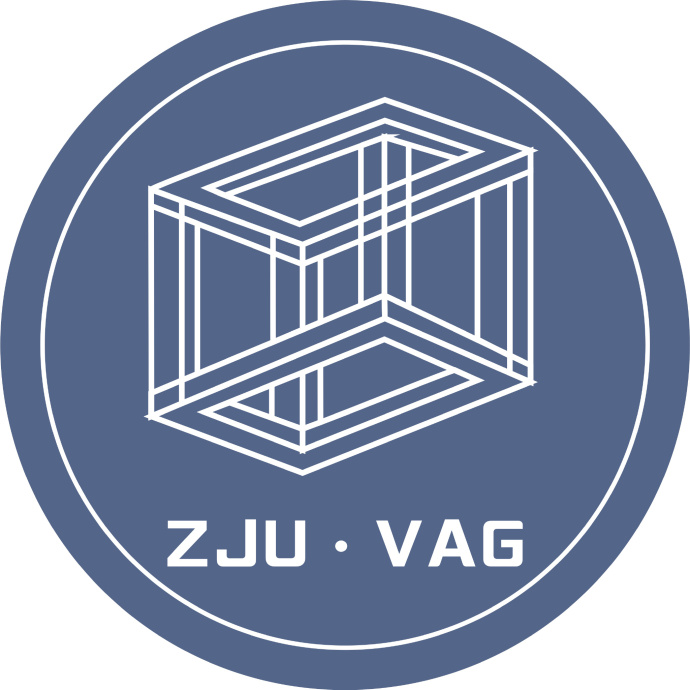
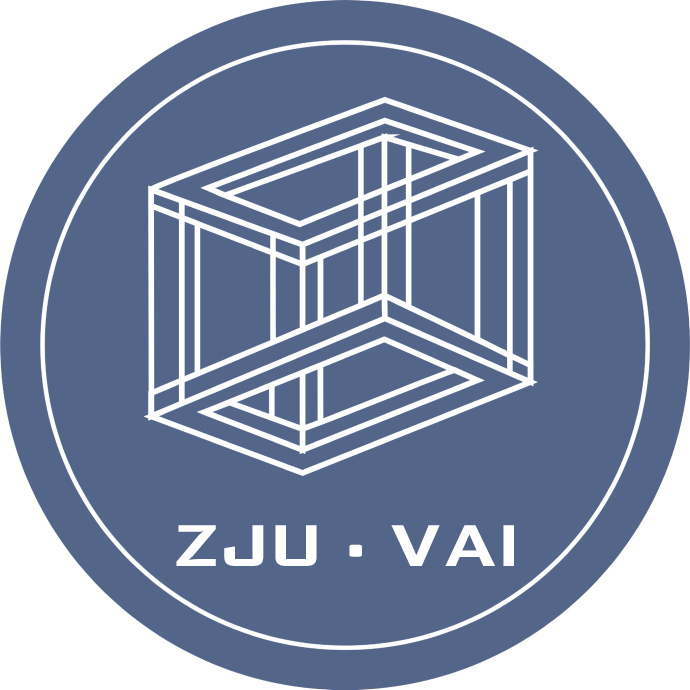
'generated'

Changed region(s): [[0.2435, 0.7304, 0.7609, 0.8217]]

diff --git a/docs/members/index.html b/docs/members/index.html
@@ -928,6 +928,99 @@
 
   
   
+  
+  
+  
+  
+  
+  
+    
+  <div class="col-12 col-sm-auto people-person">
+    
+    
+    
+    
+    
+    
+    
+    
+    
+    
+    <a href="../authors/fanyan"><img class="portrait phdstudents" src="/authors/fanyan/avatar_hu8bdb5625626fd6af0ce0f29bb8a383c4_74283_150x150_fill_lanczos_center_2.png" alt="Avatar"></a>
+    
+
+    <div class="portrait-title">
+      <h2 class="phdstudents"><a href="../authors/fanyan">Fan Yan</a>
+      </h2>
+      
+      <p class="people-interests">Information Visualization, Visual Analytics</p>
+    </div>
+  </div>
+
+  
+  
+  
+  
+  
+  
+  
+  
+    
+  <div class="col-12 col-sm-auto people-person">
+    
+    
+    
+    
+    
+    
+    
+    
+    
+    
+    <a href="../authors/jiehuizhou"><img class="portrait phdstudents" src="/authors/jiehuizhou/avatar_hu771a6abfa3ae19157e7a2a97e592a1a2_106316_150x150_fill_lanczos_center_2.png" alt="Avatar"></a>
+    
+
+    <div class="portrait-title">
+      <h2 class="phdstudents"><a href="../authors/jiehuizhou">Jiehui Zhou</a>
+      </h2>
+      
+      <p class="people-interests">Information Visualization, Visual Analytics</p>
+    </div>
+  </div>
+
+  
+  
+  
+  
+  
+  
+  
+  
+    
+  <div class="col-12 col-sm-auto people-person">
+    
+    
+    
+    
+    
+    
+    
+    
+    
+    
+    <a href="../authors/yingchaojiefeng"><img class="portrait phdstudents" src="/authors/yingchaojiefeng/avatar_huabf1205c36897bff0866bfa4dce0ef5f_455172_150x150_fill_q90_lanczos_center.jpg" alt="Avatar"></a>
+    
+
+    <div class="portrait-title">
+      <h2 class="phdstudents"><a href="../authors/yingchaojiefeng">Yingchaojie Feng</a>
+      </h2>
+      
+      <p class="people-interests">Information Visualization, Visual Analytics</p>
+    </div>
+  </div>
+
+  
+  
   <div class="col-md-12">
     <h2 class="mb-4">Master Students</h2>
   </div>
@@ -1077,11 +1170,11 @@
     
     
     
-    <a href="../authors/xiaodongzhao"><img class="portrait masterstudents" src="/authors/xiaodongzhao/avatar_huf4b4e44103c893177dcfbec53f4fb832_28705_150x150_fill_lanczos_center_2.png" alt="Avatar"></a>
+    <a href="../authors/huiye"><img class="portrait masterstudents" src="/authors/huiye/avatar_hu66281b0d46470ecaa61e4ff6879a6a21_5203_150x150_fill_q90_lanczos_center.jpg" alt="Avatar"></a>
     
 
     <div class="portrait-title">
-      <h2 class="masterstudents"><a href="../authors/xiaodongzhao">Xiaodong Zhao</a>
+      <h2 class="masterstudents"><a href="../authors/huiye">Hui Ye</a>
       </h2>
       
       <p class="people-interests">Information Visualization, Visual Analytics</p>
@@ -1108,11 +1201,11 @@
     
     
     
-    <a href="../authors/huiye"><img class="portrait masterstudents" src="/authors/huiye/avatar_hu66281b0d46470ecaa61e4ff6879a6a21_5203_150x150_fill_q90_lanczos_center.jpg" alt="Avatar"></a>
+    <a href="../authors/xiaodongzhao"><img class="portrait masterstudents" src="/authors/xiaodongzhao/avatar_huf4b4e44103c893177dcfbec53f4fb832_28705_150x150_fill_lanczos_center_2.png" alt="Avatar"></a>
     
 
     <div class="portrait-title">
-      <h2 class="masterstudents"><a href="../authors/huiye">Hui Ye</a>
+      <h2 class="masterstudents"><a href="../authors/xiaodongzhao">Xiaodong Zhao</a>
       </h2>
       
       <p class="people-interests">Information Visualization, Visual Analytics</p>
@@ -1294,73 +1387,11 @@
     
     
     
-    <a href="../authors/fanyan"><img class="portrait masterstudents" src="/authors/fanyan/avatar_hu8bdb5625626fd6af0ce0f29bb8a383c4_74283_150x150_fill_lanczos_center_2.png" alt="Avatar"></a>
-    
-
-    <div class="portrait-title">
-      <h2 class="masterstudents"><a href="../authors/fanyan">Fan Yan</a>
-      </h2>
-      
-      <p class="people-interests">Information Visualization, Visual Analytics</p>
-    </div>
-  </div>
-
-  
-  
-  
-  
-  
-  
-  
-  
-    
-  <div class="col-12 col-sm-auto people-person">
-    
-    
-    
-    
-    
-    
-    
-    
-    
-    
     <a href="../authors/yichaowang"><img class="portrait masterstudents" src="/authors/yichaowang/avatar_hucc3b422108d07c0e72b897d10f0e93b8_23012_150x150_fill_lanczos_center_2.png" alt="Avatar"></a>
     
 
     <div class="portrait-title">
       <h2 class="masterstudents"><a href="../authors/yichaowang">Yichao Wang</a>
-      </h2>
-      
-      <p class="people-interests">Information Visualization, Visual Analytics</p>
-    </div>
-  </div>
-
-  
-  
-  
-  
-  
-  
-  
-  
-    
-  <div class="col-12 col-sm-auto people-person">
-    
-    
-    
-    
-    
-    
-    
-    
-    
-    
-    <a href="../authors/jiehuizhou"><img class="portrait masterstudents" src="/authors/jiehuizhou/avatar_hu771a6abfa3ae19157e7a2a97e592a1a2_106316_150x150_fill_lanczos_center_2.png" alt="Avatar"></a>
-    
-
-    <div class="portrait-title">
-      <h2 class="masterstudents"><a href="../authors/jiehuizhou">Jiehui Zhou</a>
       </h2>
       
       <p class="people-interests">Information Visualization, Visual Analytics</p>
@@ -1423,37 +1454,6 @@
 
     <div class="portrait-title">
       <h2 class="masterstudents"><a href="../authors/yifangren">Yifang Ren</a>
-      </h2>
-      
-      <p class="people-interests">Information Visualization, Visual Analytics</p>
-    </div>
-  </div>
-
-  
-  
-  
-  
-  
-  
-  
-  
-    
-  <div class="col-12 col-sm-auto people-person">
-    
-    
-    
-    
-    
-    
-    
-    
-    
-    
-    <a href="../authors/yingchaojiefeng"><img class="portrait masterstudents" src="/authors/yingchaojiefeng/avatar_huabf1205c36897bff0866bfa4dce0ef5f_455172_150x150_fill_q90_lanczos_center.jpg" alt="Avatar"></a>
-    
-
-    <div class="portrait-title">
-      <h2 class="masterstudents"><a href="../authors/yingchaojiefeng">Yingchaojie Feng</a>
       </h2>
       
       <p class="people-interests">Information Visualization, Visual Analytics</p>

diff --git a/docs/index.html b/docs/index.html
@@ -509,7 +509,7 @@
         
           
           
-          <img class="portrait" src="/authors/admin/avatar_hue342753856f1b55bb62d38c7380e0dc0_121560_250x250_fill_q90_lanczos_center.jpg" itemprop="image" alt="Avatar">
+          <img class="portrait" src="/authors/admin/avatar_hu3ecbe4048d9bb6a51e79e80fe424eaa7_274422_250x250_fill_lanczos_center_2.png" itemprop="image" alt="Avatar">
           
           
 
@@ -627,7 +627,7 @@
       
       <h1>Visual Analytics and Intelligence Group of ZJU</h1>
 
-      <p>The Visual Analytics and Intelligence Group of the State Key lab of CAD&amp;CG, Zhejiang University was established in September 2008. The academic leader is Professor <a href="http://www.cad.zju.edu.cn/home/chenwei/">Chen Wei</a> (Weibo: <a href="https://weibo.com/shearwarp">浙大陈为</a>).</p>
+      <p>The <strong>V</strong>isual <strong>A</strong>nalytics and <strong>I</strong>ntelligence Group of the State Key lab of CAD&amp;CG, Zhejiang University was established in September 2008. The academic leader is Professor <a href="http://www.cad.zju.edu.cn/home/chenwei/">Chen Wei</a> (Weibo: <a href="https://weibo.com/shearwarp">浙大陈为</a>).</p>
 <p>Our group focuses on the research of <strong>VISUALIZATION</strong> and <strong>VISUAL ANALYTICS</strong>. The research direction mainly includes: data science, visualization of complex data, basic theory and method of visual analysis, and domain-oriented visual analysis prototype system. Our group members have published more than 20 papers on IEEE VIS and IEEE/ACM articles, including the first three papers published by the Chinese mainland at this conference (2004, 2009). The team works extensively with universities and research institutions at home and abroad, including Purdue University, Hong Kong University of Science and Technology, University of California, Davis, North Carolina, Mississippi State University, Bosch North American Institute, Microsoft Research Asia, National Meteorological Administration. , Ali Group and so on. The world&rsquo;s first non-photorealistic 3D GPS navigation system, developed by our group&rsquo;s five members at the Bosch North American Institute, has entered the global automotive market. Our group has developed a data visualization component library, DataV, together with the data product division of Ali Group. It has now been widely used within the Ali Group. The global scale 3D numerical atmospheric visual analysis system developed by our group has been well received by the National Meteorological Administration.</p>
 
 

diff --git a/docs/authors/admin/index.html b/docs/authors/admin/index.html
@@ -468,7 +468,7 @@
         
           
           
-          <img class="portrait" src="/authors/admin/avatar_hue342753856f1b55bb62d38c7380e0dc0_121560_250x250_fill_q90_lanczos_center.jpg" itemprop="image" alt="Avatar">
+          <img class="portrait" src="/authors/admin/avatar_hu3ecbe4048d9bb6a51e79e80fe424eaa7_274422_250x250_fill_lanczos_center_2.png" itemprop="image" alt="Avatar">
           
           
 
@@ -586,7 +586,7 @@
       
       
 
-      <p>The Visual Analytics and Intelligence Group of the State Key lab of CAD&amp;CG, Zhejiang University was established in September 2008. The academic leader is Professor <a href="http://www.cad.zju.edu.cn/home/chenwei/">Chen Wei</a> (Weibo: <a href="https://weibo.com/shearwarp">浙大陈为</a>).</p>
+      <p>The <strong>V</strong>isual <strong>A</strong>nalytics and <strong>I</strong>ntelligence Group of the State Key lab of CAD&amp;CG, Zhejiang University was established in September 2008. The academic leader is Professor <a href="http://www.cad.zju.edu.cn/home/chenwei/">Chen Wei</a> (Weibo: <a href="https://weibo.com/shearwarp">浙大陈为</a>).</p>
 <p>Our group focuses on the research of <strong>VISUALIZATION</strong> and <strong>VISUAL ANALYTICS</strong>. The research direction mainly includes: data science, visualization of complex data, basic theory and method of visual analysis, and domain-oriented visual analysis prototype system. Our group members have published more than 20 papers on IEEE VIS and IEEE/ACM articles, including the first three papers published by the Chinese mainland at this conference (2004, 2009). The team works extensively with universities and research institutions at home and abroad, including Purdue University, Hong Kong University of Science and Technology, University of California, Davis, North Carolina, Mississippi State University, Bosch North American Institute, Microsoft Research Asia, National Meteorological Administration. , Ali Group and so on. The world&rsquo;s first non-photorealistic 3D GPS navigation system, developed by our group&rsquo;s five members at the Bosch North American Institute, has entered the global automotive market. Our group has developed a data visualization component library, DataV, together with the data product division of Ali Group. It has now been widely used within the Ali Group. The global scale 3D numerical atmospheric visual analysis system developed by our group has been well received by the National Meteorological Administration.</p>
 
 

diff --git a/content/authors/admin/_index.md b/content/authors/admin/_index.md
@@ -70,6 +70,6 @@ user_groups:
   - Visitors
 ---
 
-The Visual Analytics and Intelligence Group of the State Key lab of CAD&CG, Zhejiang University was established in September 2008. The academic leader is Professor [Chen Wei](http://www.cad.zju.edu.cn/home/chenwei/) (Weibo: [浙大陈为](https://weibo.com/shearwarp)).
+The **V**isual **A**nalytics and **I**ntelligence Group of the State Key lab of CAD&CG, Zhejiang University was established in September 2008. The academic leader is Professor [Chen Wei](http://www.cad.zju.edu.cn/home/chenwei/) (Weibo: [浙大陈为](https://weibo.com/shearwarp)).
 
 Our group focuses on the research of **VISUALIZATION** and **VISUAL ANALYTICS**. The research direction mainly includes: data science, visualization of complex data, basic theory and method of visual analysis, and domain-oriented visual analysis prototype system. Our group members have published more than 20 papers on IEEE VIS and IEEE/ACM articles, including the first three papers published by the Chinese mainland at this conference (2004, 2009). The team works extensively with universities and research institutions at home and abroad, including Purdue University, Hong Kong University of Science and Technology, University of California, Davis, North Carolina, Mississippi State University, Bosch North American Institute, Microsoft Research Asia, National Meteorological Administration. , Ali Group and so on. The world's first non-photorealistic 3D GPS navigation system, developed by our group's five members at the Bosch North American Institute, has entered the global automotive market. Our group has developed a data visualization component library, DataV, together with the data product division of Ali Group. It has now been widely used within the Ali Group. The global scale 3D numerical atmospheric visual analysis system developed by our group has been well received by the National Meteorological Administration.

diff --git a/content/authors/jiehuizhou/_index.md b/content/authors/jiehuizhou/_index.md
@@ -2,7 +2,7 @@
 # Display name
 name: Jiehui Zhou
 
-index: 350
+index: 170
 
 # Username (this should match the folder name)
 authors:
@@ -17,7 +17,6 @@ interests:
   - Information Visualization
   - Visual Analytics
 
-
 user_groups:
-  - Master Students
+  - Ph.D. Students
 ---

diff --git a/content/authors/yingchaojiefeng/_index.md b/content/authors/yingchaojiefeng/_index.md
@@ -2,7 +2,7 @@
 # Display name
 name: Yingchaojie Feng
 
-index: 370
+index: 170
 
 # Username (this should match the folder name)
 authors:
@@ -18,5 +18,5 @@ interests:
   - Visual Analytics
 
 user_groups:
-  - Master Students
+  - Ph.D. Students
 ---

diff --git a/content/authors/fanyan/_index.md b/content/authors/fanyan/_index.md
@@ -2,7 +2,7 @@
 # Display name
 name: Fan Yan
 
-index: 330
+index: 160
 
 # Username (this should match the folder name)
 authors:
@@ -18,5 +18,5 @@ interests:
   - Visual Analytics
 
 user_groups:
-  - Master Students
+  - Ph.D. Students
 ---
